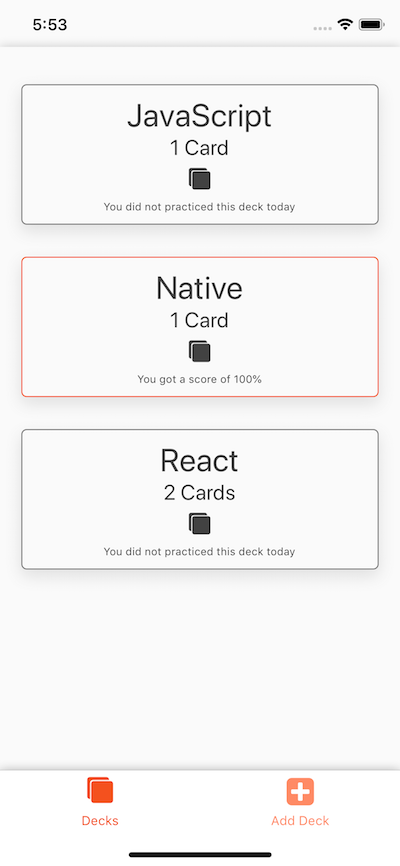
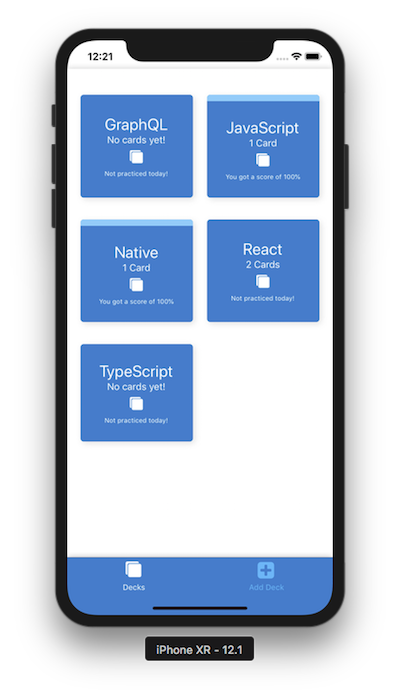
change in cards style, now with two cards per line

diff --git a/components/DeckContainer.js b/components/DeckContainer.js
@@ -1,6 +1,7 @@
 import React, { Component } from 'react';
-import { View, Text, StyleSheet, TouchableOpacity } from 'react-native';
+import { Text, StyleSheet, TouchableOpacity } from 'react-native';
 import { Ionicons } from '@expo/vector-icons';
+import { white, blue } from '../utils/colorNames'
 
 const CardsCount = ({ questions, textStyle }) => {
     if(questions === 0) {
@@ -21,20 +22,20 @@ const CardsCount = ({ questions, textStyle }) => {
 export default class DeckContainer extends Component {
 
     render() {
-        const { textStyle, viewStyle } = styles;
+        const { textStyle, viewStyle, tried } = styles;
         return (
             <TouchableOpacity
                 disabled={this.props.nolink ? true : false} 
-                style={this.props.tried === "You did not practiced this deck today" ? viewStyle : [viewStyle, { borderColor: '#F4511E' }]}
+                style={this.props.tried === "Not practiced today!" ? viewStyle : [viewStyle, tried]}
                 onPress={() => 
                     this.props.navigation.navigate('ViewDeck', {
                     deckName: this.props.deckName,
                     questions: this.props.questions,
                     deckId: this.props.deckId
                 })}>
-                <Text style={[textStyle, { fontSize: 30 }]}>{this.props.deckName}</Text>
+                <Text style={[textStyle, { fontSize: 25 }]}>{this.props.deckName}</Text>
                 <CardsCount questions={this.props.questions} textStyle={textStyle}/>
-                <Ionicons name="md-albums" size={25} style={{ color: '#424242', paddingTop: 5 }} />
+                <Ionicons name="md-albums" size={25} style={{ color: white, paddingTop: 5 }} />
                 {this.props.tried && <Text style={[textStyle, { fontSize: 10, marginTop: 5 }]}>{this.props.tried}</Text>}
             </TouchableOpacity>
         )
@@ -43,28 +44,28 @@ export default class DeckContainer extends Component {
 
 const styles = StyleSheet.create({
     textStyle: {
-        fontSize: 20,
-        color: '#424242'
+        fontSize: 15,
+        color: white
     },
     viewStyle: {
         justifyContent: 'center',
         alignItems: 'center',
         padding: 10,
         borderRadius: 5,
-        borderWidth: 1,
-        borderColor: '#757575',
-        marginTop: 15,
-        marginLeft: 20,
-        marginRight: 20,
-        marginBottom: 20,
-        backgroundColor: "#FAFAFA",
+        marginBottom: 5,
+        backgroundColor: blue,
         shadowColor: "#757575",
         shadowOffset: {
-            width: 0,
+            width: 3,
             height: 3,
         },
         shadowOpacity: .2,
         shadowRadius: 5,        
         elevation: 6,
+        width: '47%'
+    },
+    tried: {
+        borderTopWidth: 10,
+        borderColor: '#81D4FA',
     }
   });

diff --git a/components/Quiz.js b/components/Quiz.js
@@ -1,7 +1,7 @@
 import React from 'react';
 import { StyleSheet, View, Text, TouchableOpacity, AsyncStorage } from 'react-native';
 import { clearLocalNotification, setLocalNotification } from '../utils/helper';
-import { red, white } from '../utils/colorNames';
+import { blue, white } from '../utils/colorNames';
 
 const CardsCount = ({ questions, textStyle }) => {
   if(questions === 1) {
@@ -173,7 +173,7 @@ export default class Quiz extends React.Component {
                 <Text style={{ fontSize: 20, color: '#424242' }}>Correct</Text>          
             </TouchableOpacity>
             <TouchableOpacity
-            style={[btn, { borderColor: red, flex: 1, marginRight: 20, marginLeft: 5 }]}
+            style={[btn, { borderColor: blue, flex: 1, marginRight: 20, marginLeft: 5 }]}
             onPress={this.incorrect}>
                 <Text style={{ fontSize: 20, color: '#424242' }}>Incorrect</Text>          
             </TouchableOpacity>
@@ -216,7 +216,7 @@ Study more and try again!`
           </TouchableOpacity>
 
           <TouchableOpacity 
-            style={[btn, { borderColor: red, marginTop: 8 }]}
+            style={[btn, { borderColor: blue, marginTop: 8 }]}
             onPress={() => this.setState({ 
               currentQuestion: 0,
               lastQuestion: this.state.restartHelper,
@@ -269,7 +269,7 @@ const styles = StyleSheet.create({
     paddingVertical: 10, 
     paddingHorizontal: 20, 
     marginTop: 60,
-    backgroundColor: red,
+    backgroundColor: blue,
     alignItems: 'center'
   },
   btnDelete: {
@@ -278,7 +278,7 @@ const styles = StyleSheet.create({
     paddingHorizontal: 20, 
     marginTop: 60,
     borderWidth: 1.5,
-    borderColor: red,    
+    borderColor: blue,    
     alignItems: 'center'
   },
   btnFocus: {
@@ -287,7 +287,7 @@ const styles = StyleSheet.create({
     paddingHorizontal: 20, 
     marginTop: 20,    
     borderWidth: 1.5,
-    borderColor: red,
+    borderColor: blue,
     alignItems: 'center'
   },
   container: {

diff --git a/utils/navigate.js b/utils/navigate.js
@@ -8,7 +8,7 @@ import AddDeck from '../components/AddDeck';
 import AddCard from '../components/AddCard';
 import Quiz from '../components/Quiz';
 import { Platform } from 'react-native';
-import { red, white } from './colorNames';
+import { blue, white } from './colorNames';
 
 const Tabs = TabNavigator({
     Main: {
@@ -31,14 +31,14 @@ const Tabs = TabNavigator({
       header: null
     },
     tabBarOptions: {
-      activeTintColor: '#F4511E',
-      inactiveTintColor: '#FF8A65',
+      activeTintColor: white,
+      inactiveTintColor: 'rgb(70, 195, 249)',
       labelStyle: {
         fontSize: Platform.OS === 'ios' ? 12 : 18,
       },
       style: {
         height: 56,
-        backgroundColor: white,
+        backgroundColor: blue,
         shadowColor: 'rgba(0, 0, 0, 0.5)',
         shadowOffset: {
           width: 0,
@@ -64,7 +64,7 @@ const Tabs = TabNavigator({
         title: `${navigation.state.params.deckName} Deck`,
         headerTintColor: white,
         headerStyle: {
-          backgroundColor: red,
+          backgroundColor: blue,
           marginTop: 0 - Constants.statusBarHeight
         }
       }),
@@ -75,7 +75,7 @@ const Tabs = TabNavigator({
         title: 'Add Card',
         headerTintColor: white,
         headerStyle: {
-          backgroundColor: red,
+          backgroundColor: blue,
           marginTop: 0 - Constants.statusBarHeight
         }
       }),
@@ -86,7 +86,7 @@ const Tabs = TabNavigator({
         title: 'Quiz',
         headerTintColor: white,
         headerStyle: {
-          backgroundColor: red,
+          backgroundColor: blue,
           marginTop: 0 - Constants.statusBarHeight
         }
       }),

diff --git a/App.js b/App.js
@@ -1,7 +1,8 @@
 import React from 'react';
-import { StatusBar, View, Platform, AsyncStorage } from 'react-native';
+import { StatusBar, View, AsyncStorage, Platform } from 'react-native';
 import { Constants } from 'expo';
 import { parseDecks, createDecks } from './utils/helper'
+import { blue, white } from './utils/colorNames'
 import { MainNavigator } from './utils/navigate';
 
 
@@ -17,7 +18,7 @@ export default class App extends React.Component {
 
   state = {
     decks: [],
-    test: () => console.log("lol")
+    test: () => console.log("Test")
   }
 
   componentDidMount() { 
@@ -26,7 +27,7 @@ export default class App extends React.Component {
     createDecks()
     AsyncStorage.getAllKeys((err, keys) => {
       AsyncStorage.multiGet(keys, (err, decks) => {
-        this.setState({ decks: parseDecks(decks) });
+        this.setState({ decks: parseDecks(decks).filter((d) => d !== null) });
       });
     }).catch((e) => console.log(e));
   }
@@ -34,7 +35,7 @@ export default class App extends React.Component {
   render() {    
     return (
       <View style={{ flex: 1 }}>
-      <UdaciStatusBar backgroundColor={'#FAFAFA'} barStyle="default" />
+      <UdaciStatusBar backgroundColor={Platform.OS === 'ios' ? white : blue} barStyle="default" />
       <MainNavigator screenProps={this.state}/>
       </View>
     );

diff --git a/utils/helper.js b/utils/helper.js
@@ -30,7 +30,7 @@ export const createDecks = () => {
           }
         ],
         id: id,
-        tried: "You did not practiced this deck today",
+        tried: "Not practiced today!",
         key: id
       }));
       id = uuid()
@@ -43,7 +43,7 @@ export const createDecks = () => {
           }
         ],
         id: id,
-        tried: "You did not practiced this deck today",
+        tried: "Not practiced today!",
         key: id
       }));
       id = uuid()
@@ -56,7 +56,23 @@ export const createDecks = () => {
           }
         ],
         id: id,
-        tried: "You did not practiced this deck today",
+        tried: "Not practiced today!",
+        key: id
+      }));
+      id = uuid()     
+      AsyncStorage.setItem(id, JSON.stringify({
+        title: 'TypeScript',
+        questions: [],
+        id: id,
+        tried: "Not practiced today!",
+        key: id
+      }));     
+      id = uuid()     
+      AsyncStorage.setItem(id, JSON.stringify({
+        title: 'GraphQL',
+        questions: [],
+        id: id,
+        tried: "Not practiced today!",
         key: id
       }));     
 };

diff --git a/components/Main.js b/components/Main.js
@@ -2,6 +2,7 @@ import React from 'react';
 import { View, FlatList, AsyncStorage, TouchableOpacity, Text, StyleSheet, ActivityIndicator } from 'react-native';
 import DeckContainer from './DeckContainer';
 import { parseDecks } from '../utils/helper'
+import { white } from '../utils/colorNames'
 
 export default class Main extends React.Component {
   state = {
@@ -33,12 +34,14 @@ export default class Main extends React.Component {
 
   render() {
     return (
-      <View style={{ backgroundColor: '#FAFAFA', flex: 1, paddingTop: 20 }}>
+      <View style={{ backgroundColor: white, flex: 1, paddingTop: 20 }}>
         {(this.state.decks[0] && this.state.decks[0].title) ?
           <FlatList
             data={this.state.decks}
             onRefresh={this.handleRefresh}
             refreshing={this.state.refreshing}
+            numColumns={2}
+            columnWrapperStyle={{ justifyContent: 'space-between', padding: '5%', paddingBottom: '10%' }}
             renderItem={({ item }) =>
               <DeckContainer
                 navigation={this.props.navigation}

diff --git a/components/ViewDeck.js b/components/ViewDeck.js
@@ -1,6 +1,6 @@
 import React from 'react';
 import { StyleSheet, View, Text, TouchableOpacity, AsyncStorage, Platform } from 'react-native';
-import { red, white } from '../utils/colorNames';
+import { blue, white } from '../utils/colorNames';
 
 const CardsCount = ({ questions, textStyle }) => {
   if(questions === 0) {
@@ -101,7 +101,7 @@ const styles = StyleSheet.create({
     borderRadius: 5,
     paddingVertical: 10, 
     paddingHorizontal: 20, 
-    backgroundColor: red,
+    backgroundColor: blue,
     alignItems: 'center'
   },
   btnDelete: {
@@ -109,7 +109,7 @@ const styles = StyleSheet.create({
     paddingVertical: 10, 
     paddingHorizontal: 20, 
     borderWidth: 1.5,
-    borderColor: red,    
+    borderColor: blue,    
     alignItems: 'center'
   },
   btnFocus: {
@@ -117,7 +117,7 @@ const styles = StyleSheet.create({
     paddingVertical: 10, 
     paddingHorizontal: 20, 
     borderWidth: 1.5,
-    borderColor: red,
+    borderColor: blue,
     alignItems: 'center'
   }
 });

diff --git a/components/AddCard.js b/components/AddCard.js
@@ -1,5 +1,6 @@
 import React from 'react';
 import { StyleSheet, View, Text, TouchableOpacity, TextInput, AsyncStorage } from 'react-native';
+import { blue } from '../utils/colorNames'
 
 export default class AddCard extends React.Component {
 
@@ -42,7 +43,7 @@ export default class AddCard extends React.Component {
     const { inputStyle, mainContainer, btnFocus } = styles;
     return (      
       <View style={[mainContainer]}>
-      <Text style={{ fontSize: 30, marginBottom: 15, color: '#F4511E' }}>Add your new card:</Text>
+      <Text style={{ fontSize: 30, marginBottom: 15, color: blue }}>Add your new card:</Text>
         <TextInput
             value={this.state.question}
             style={inputStyle}
@@ -96,7 +97,7 @@ const styles = StyleSheet.create({
     paddingVertical: 10, 
     paddingHorizontal: 20, 
     borderWidth: 1.5,
-    borderColor: '#F4511E',
+    borderColor: blue,
     marginTop: 15
   }
 });

diff --git a/components/AddDeck.js b/components/AddDeck.js
@@ -1,6 +1,7 @@
 import React from 'react';
 import { StyleSheet, View, Text, TouchableOpacity, TextInput, AsyncStorage } from 'react-native';
 import uuid from 'uuid';
+import { blue } from '../utils/colorNames'
 
 export default class AddDeck extends React.Component {
 
@@ -38,7 +39,6 @@ export default class AddDeck extends React.Component {
 
     return (      
       <View style={[mainContainer]}>
-      {console.log(this.props)}
       <Text style={{ fontSize: 25, marginBottom: 15, color: '#424242' }}>Add your new deck:</Text>
         <TextInput
             value={this.state.deckName}
@@ -90,7 +90,7 @@ const styles = StyleSheet.create({
     paddingVertical: 10, 
     paddingHorizontal: 20,  
     borderWidth: 1.5,
-    borderColor: 'tomato',
+    borderColor: blue,
     marginTop: 15
   }
 });

diff --git a/utils/colorNames.js b/utils/colorNames.js
@@ -1,2 +1,3 @@
 export const red = '#F4511E';
+export const blue = '#008ECC';
 export const white = 'white';
